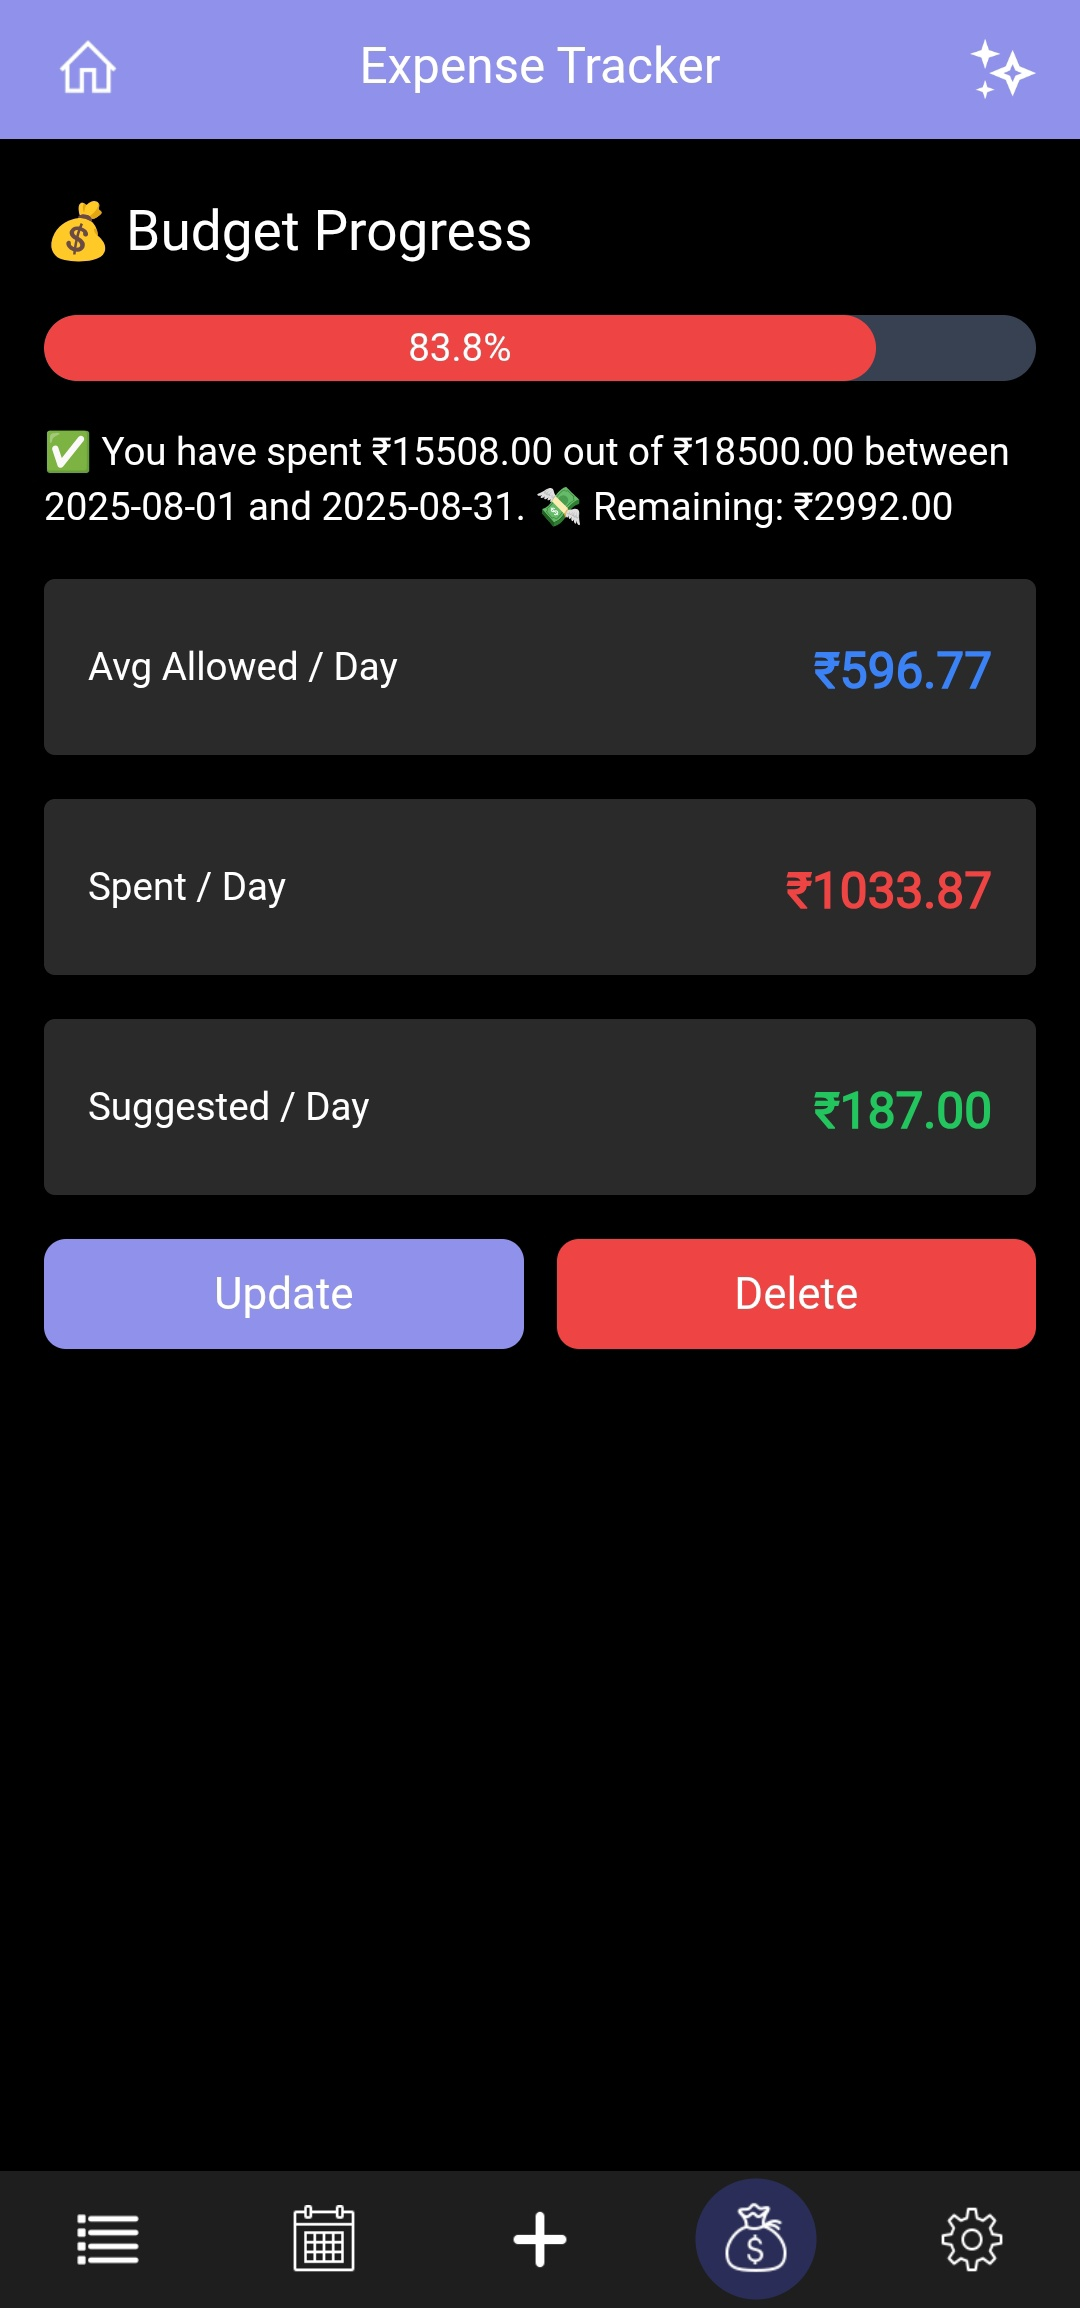
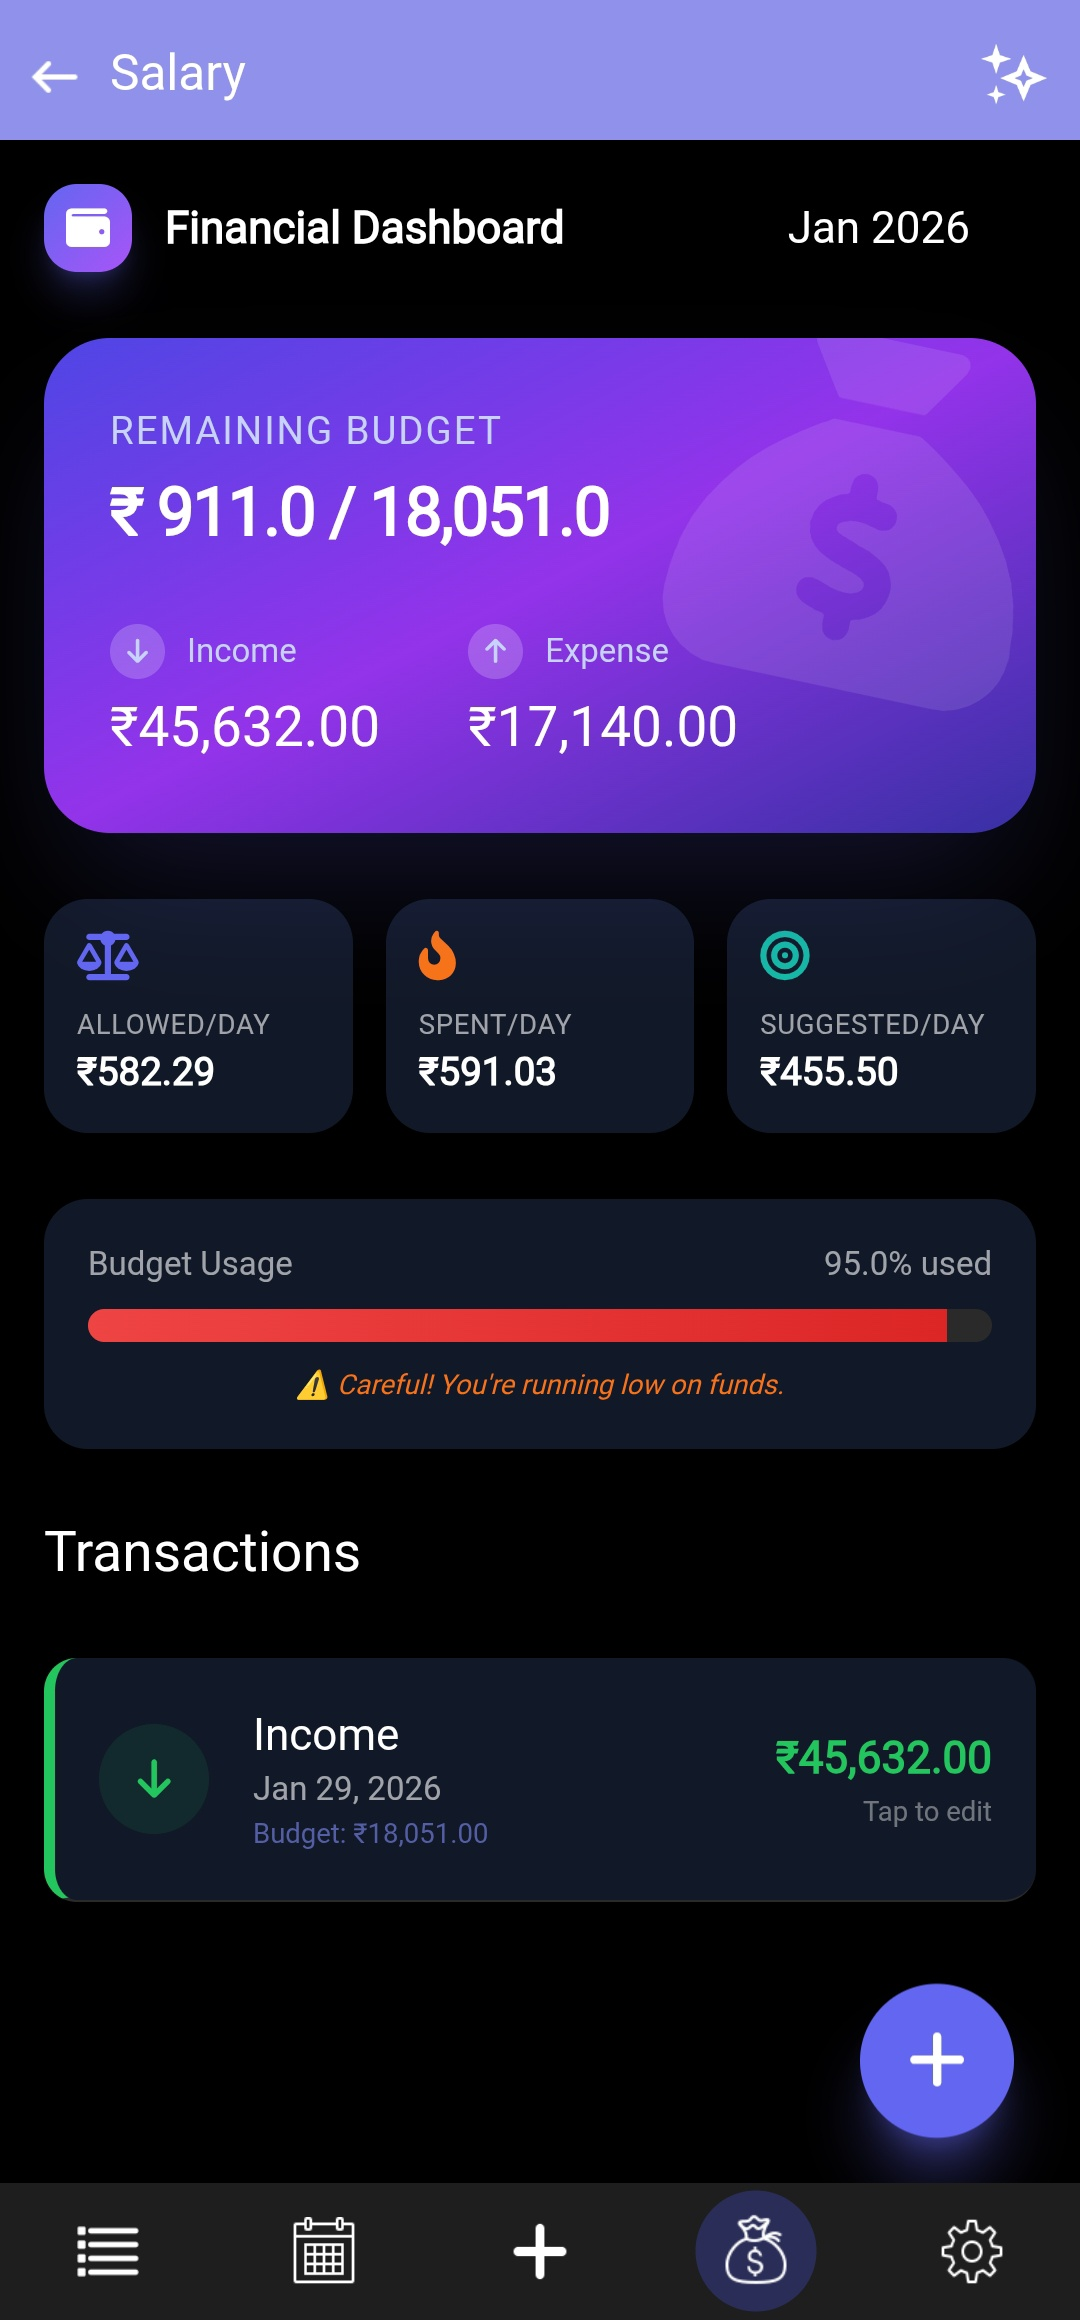
update

diff --git a/index.html b/index.html
@@ -426,18 +426,18 @@
                 <div class="flex flex-col items-center reveal delay-100 group cursor-pointer">
                     <div
                         class="w-full max-w-[240px] glass rounded-[2.5rem] p-2 border border-white/10 mb-8 aspect-[9/18.5] relative bg-[#0f0f12] phone-frame shadow-2xl group-hover:-translate-y-4 transition-transform duration-500">
-                        <img src="https://exwise.vercel.app/assets/appScreenshot/add.jpg" alt="Add Expense View"
-                            class="app-screenshot rounded-[1.8rem]">
+                        <img src="https://exwise.vercel.app/assets/appScreenshot/budget.jpg"
+                            alt="Financial Dashboard View" class="app-screenshot rounded-[1.8rem]">
                         <div
                             class="absolute inset-0 bg-purple-500/20 blur-xl rounded-[2.5rem] -z-10 opacity-0 group-hover:opacity-100 transition-opacity duration-500">
                         </div>
                     </div>
                     <div class="text-center px-4">
-                        <h3 class="font-bold text-2xl text-white mb-3 group-hover:text-purple-400 transition-colors">Add
-                            Expense</h3>
+                        <h3 class="font-bold text-2xl text-white mb-3 group-hover:text-purple-400 transition-colors">
+                            Financial Dashboard
+                        </h3>
                         <p class="text-sm text-slate-400 leading-relaxed group-hover:text-slate-300 transition-colors">
-                            Comprehensive form including Amount, Date & Time, Category, Payment Mode, Location, and
-                            Notes.
+                            The Financial Dashboard helps users manage their monthly salary, define budgets, and gain deep insights into their spending behavior.
                         </p>
                     </div>
                 </div>
